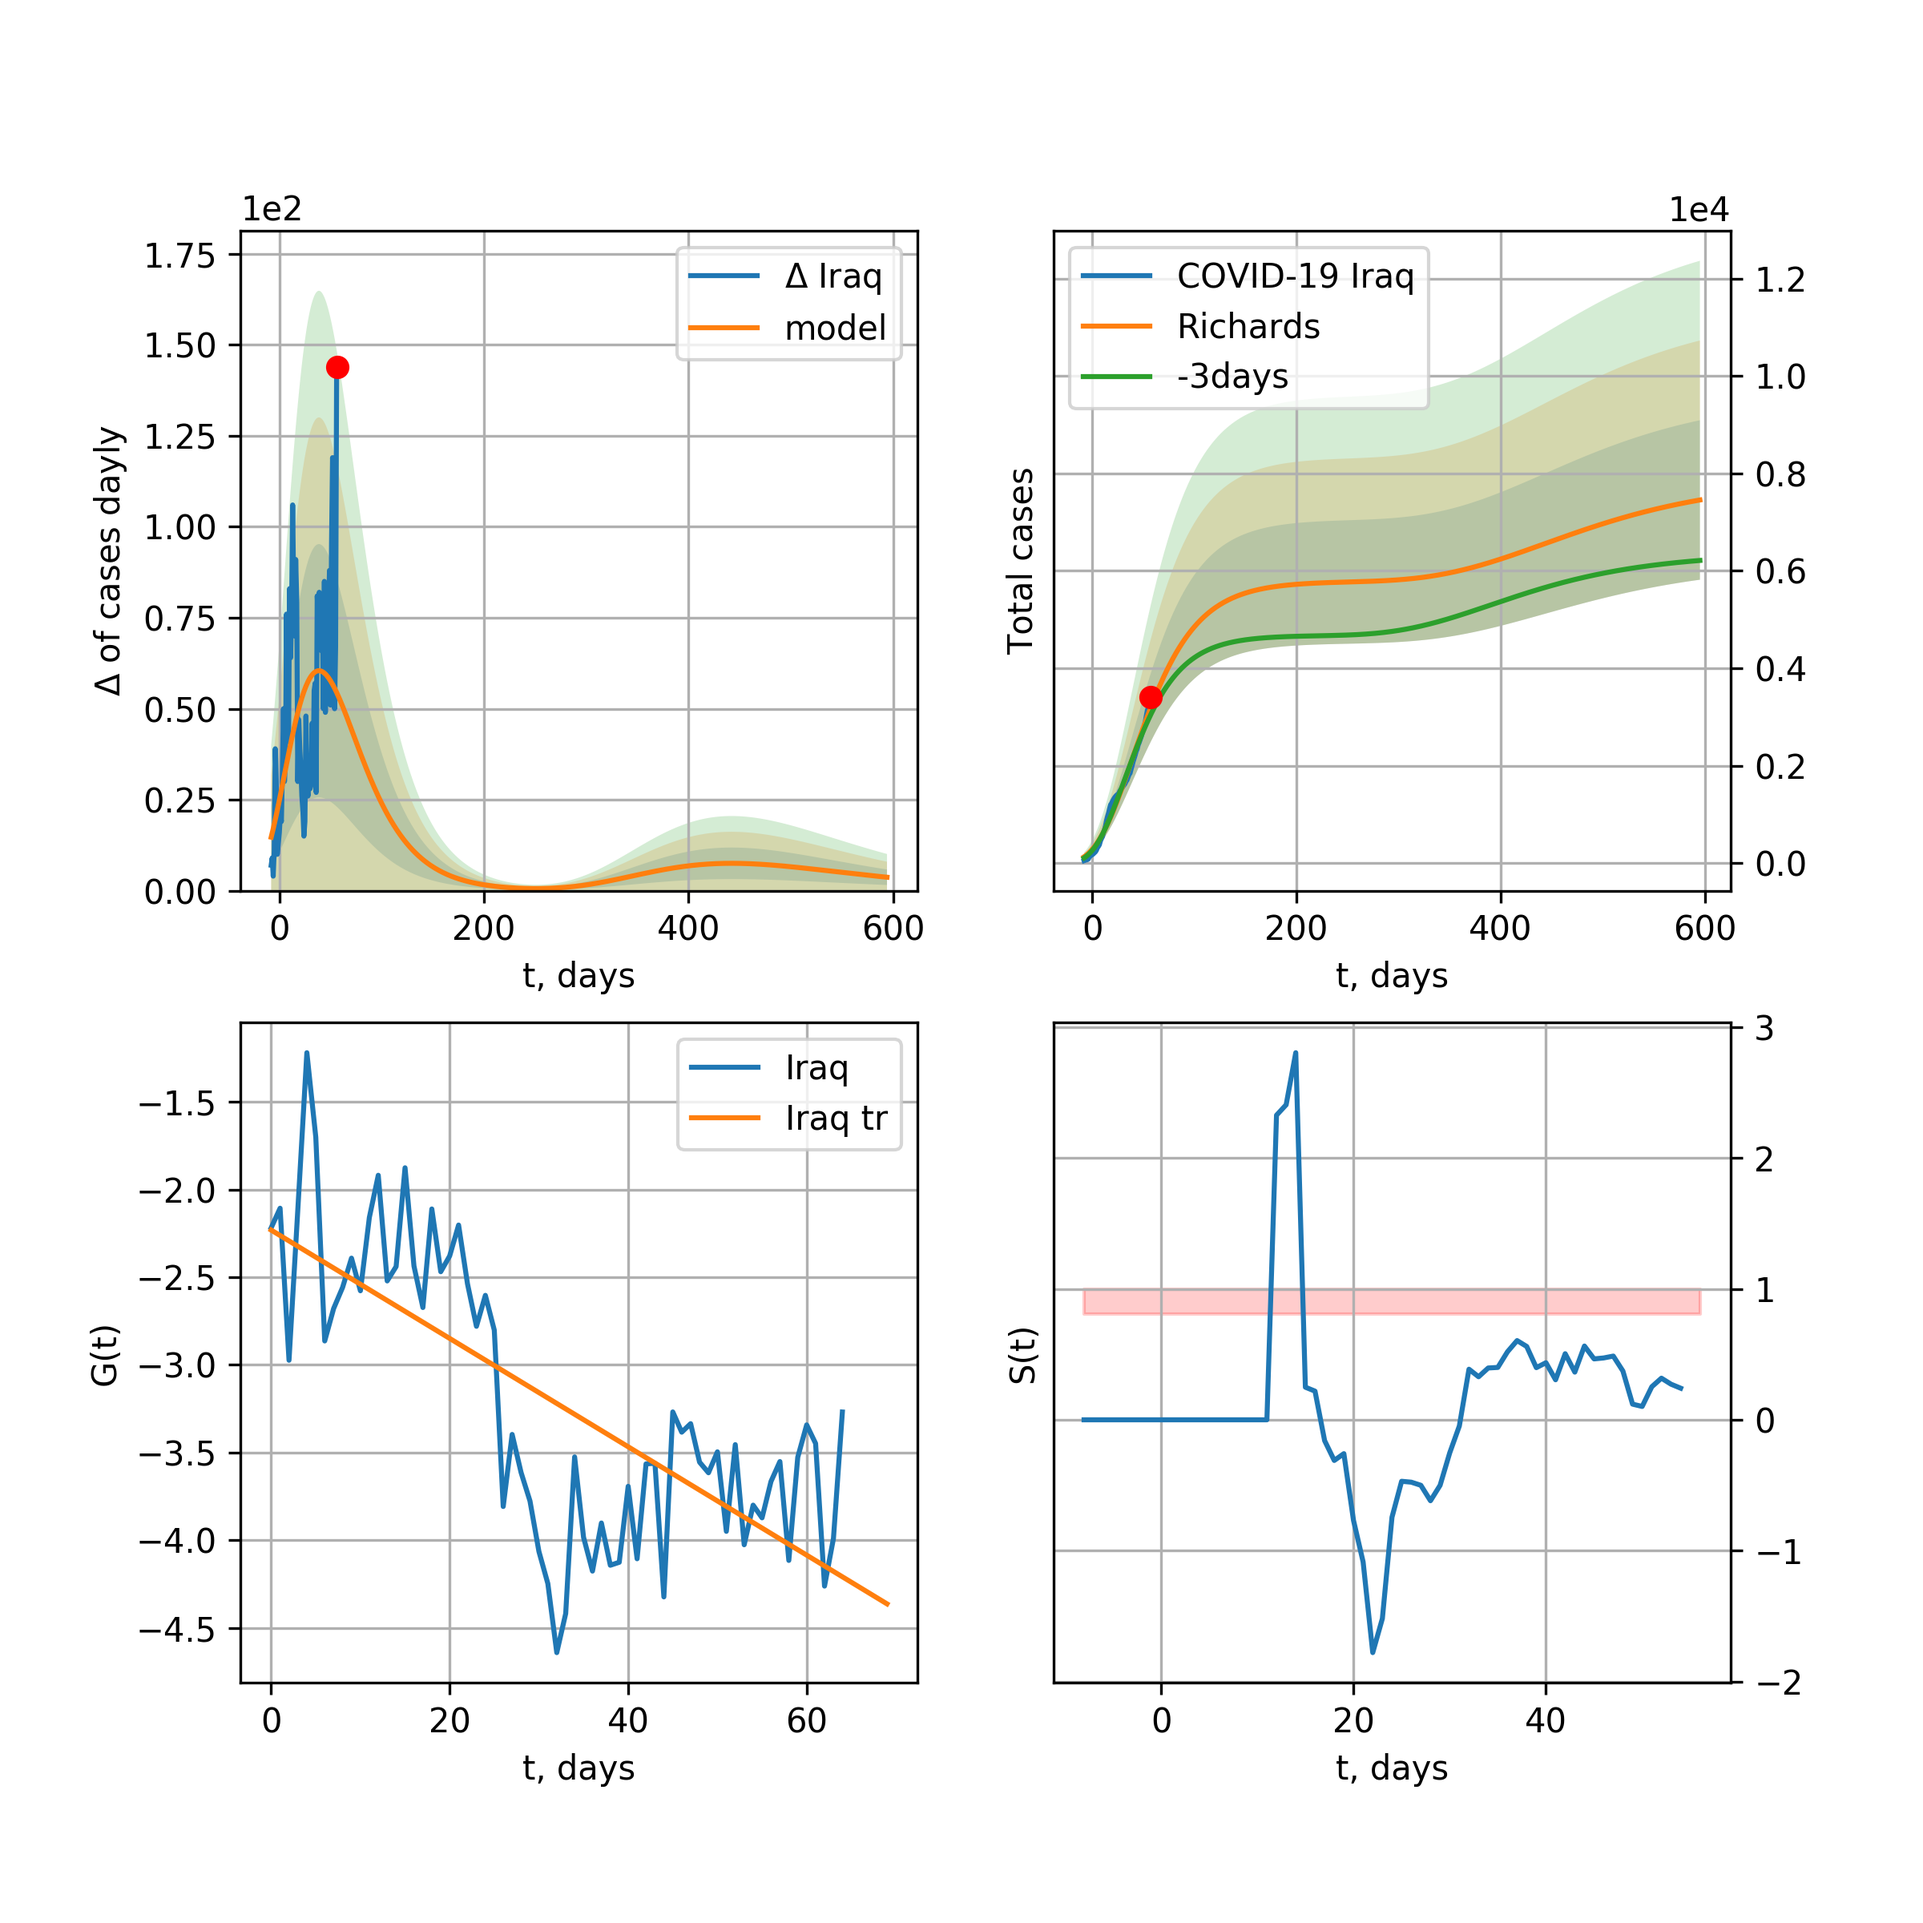
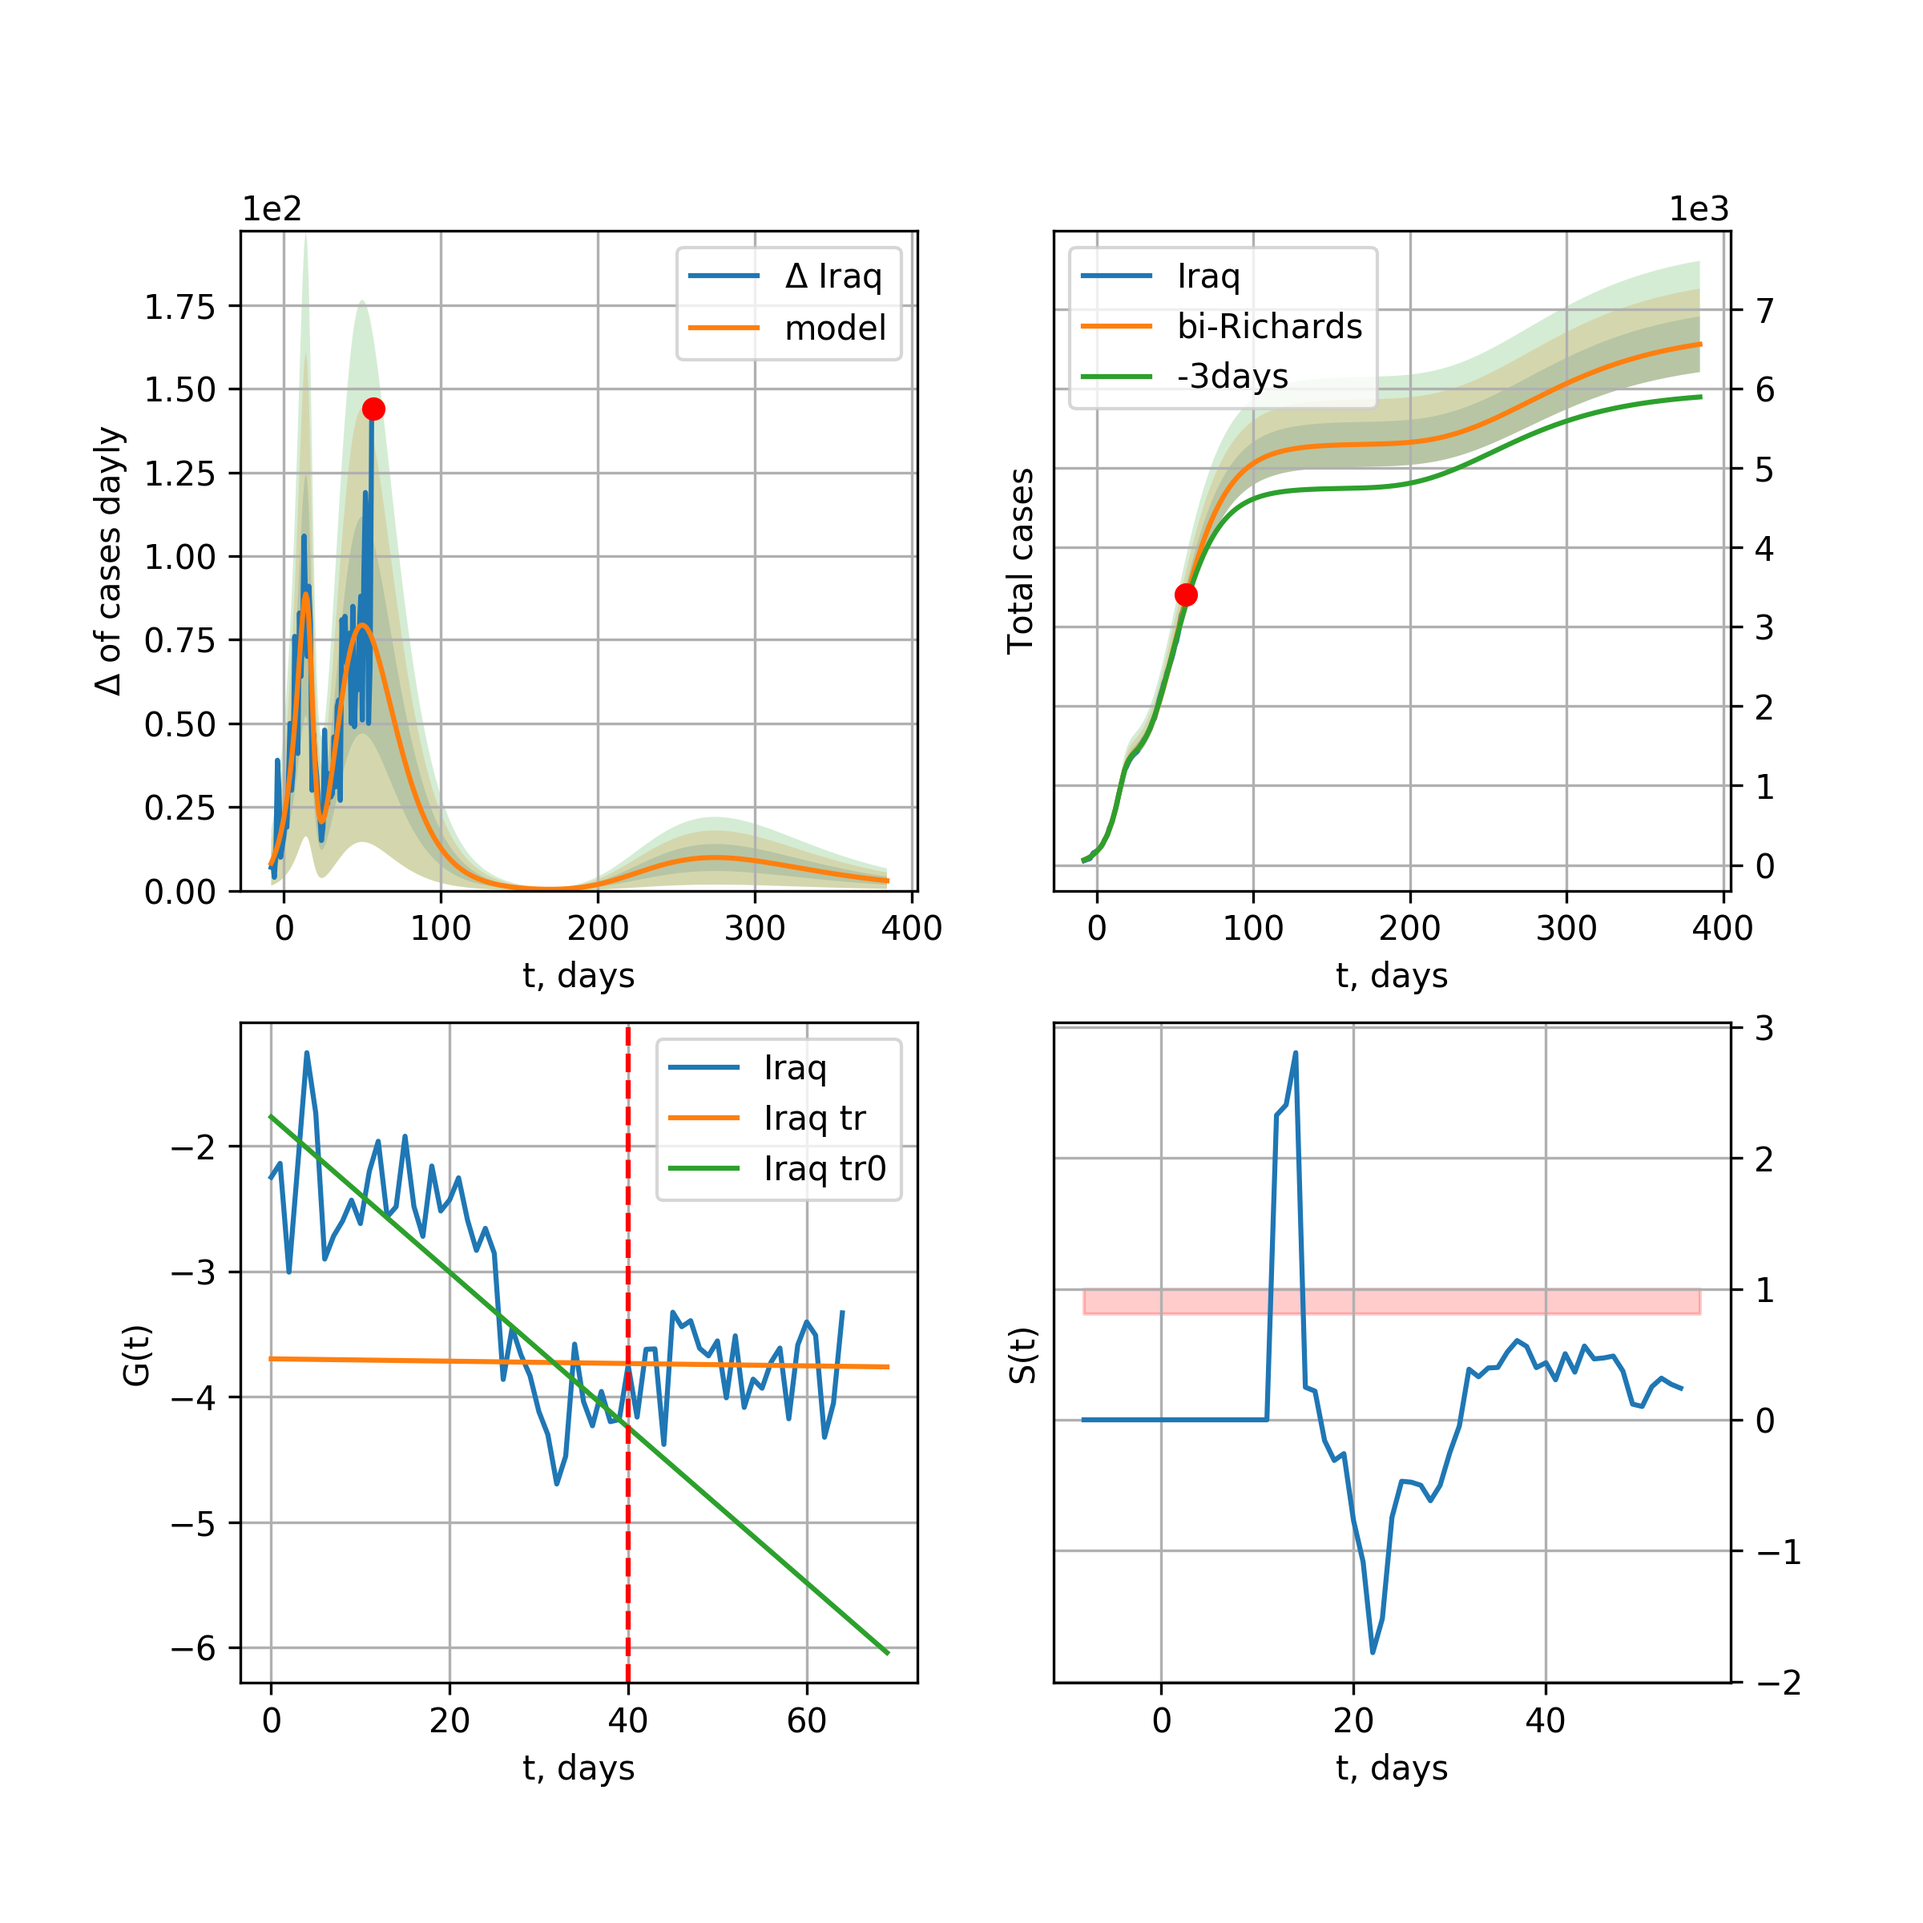
IQ renew 2020-05-17

diff --git a/_site/index.html b/_site/index.html
@@ -462,21 +462,21 @@ trend coefficient of determination: 0.984790 <br />
     
     Ecuador
     <br />
-    <img src="pictures/covidcasesEcuador35_Q.png" alt="hi" class="inline"/><br /> 
+    <img src="pictures/covidcasesEcuador36_R.png" alt="hi" class="inline"/><br /> 
 
       Ecuador data at: 2020-05-17<br />
-+3 day model MAPE: 0.014833<br />
-model: logisticQ<br />
-coeffs: [ 4.19158721e+04  9.02705740e-07  4.30912253e+01 -8.24032233e+04]<br />
-S.Korea scenario coeffs: [0.35416971, 0.02606324, 4.35859408, 19.30413219]<br />
-rational stdev: 0.358218<br />
-forecast at the end of period: +230 days<br />
-	 deltaDaycases: 11<br />
-	 total cases: 56444 ± 20219<br />
-	 total death: 4654 ± 5001<br />
-trend coefficient of determination: 0.708255 <br />
- intercept_: -5.5537437220741195 <br />
- coeffs_: [ 0.         -0.30016091  0.00248462]<br />
++3 day model MAPE: 0.001703<br />
+model: Richards<br />
+coeffs: [ 6.66388459e+04  2.50560549e+00 -9.78198874e+01  1.20658385e-02]<br />
+S.Korea scenario coeffs: [0.36242246, 2.56241634, 1.84890887, 0.13324732]<br />
+rational stdev: 0.324702<br />
+forecast at the end of period: +650 days<br />
+	 deltaDaycases: 14<br />
+	 total cases: 89313 ± 29000<br />
+	 total death: 7364 ± 7173<br />
+trend coefficient of determination: 0.197650 <br />
+ intercept: -1.888457 <br />
+ slope: -0.046420<br />
           <br /> 
     
     Portugal
@@ -1234,23 +1234,24 @@ trend coefficient of determination: 0.943341 <br />
     
     Iraq
     <br />
-    <img src="pictures/covidcasesIraq35_Q.png" alt="hi" class="inline"/><br /> 
+    <img src="pictures/covidcasesIraq36_R.png" alt="hi" class="inline"/><br /> 
 
       Iraq data at: 2020-05-17<br />
-+3 day model MAPE: 0.053912<br />
-model: bi-logisticQ<br />
-coeffs: [ 2.17484598e+03  3.34640201e-06  4.72004859e+01 -4.78005421e+04]<br />
-rational stdev: 0.072353<br />
-forecast at the end of period: +118 days<br />
-	 deltaDaycases: 0<br />
-	 total cases: 3669 ± 265<br />
-	 total death: 132 ± 28<br />
-bi-logisticQ approximation splitting point: 42<br />
-trend coefficient of determination: 0.938502 <br />
- intercept_: -6.116864757771229 <br />
- coeffs_: [ 0.         -0.176838    0.00090835]<br />trend coefficient of determination: 0.378546 <br />
- intercept_: -8.291926285968042 <br />
- coeffs_: [ 0.         -0.08223184  0.00044665]<br />
++3 day model MAPE: 0.020049<br />
+model: bi-Richards<br />
+coeffs: [ 3.92866148e+03  2.67702358e+00 -1.93247202e+01  2.07394298e-02]<br />
+S.Korea scenario coeffs: [0.36242246, 2.56241634, 1.84890887, 0.13324732]<br />
+rational stdev: 0.053445<br />
+forecast at the end of period: +328 days<br />
+	 deltaDaycases: 2<br />
+	 total cases: 6559 ± 350<br />
+	 total death: 237 ± 37<br />
+bi-Richards approximation splitting point: 40<br />
+trend coefficient of determination: 0.681836 <br />
+ intercept: -1.768993 <br />
+ slope: -0.061927<br />trend coefficient of determination: 0.000482 <br />
+ intercept: -3.698524 <br />
+ slope: -0.000933<br />
           <br /> 
     
     Croatia

diff --git a/index.html b/index.html
@@ -192,9 +192,9 @@ European Union
     
     Ecuador
     <br />
-    <img src="pictures/covidcasesEcuador35_Q.png" alt="hi" class="inline"/><br /> 
+    <img src="pictures/covidcasesEcuador36_R.png" alt="hi" class="inline"/><br /> 
 
-      {% include_relative _includes/covidcasesEcuador35_Q.txt %}
+      {% include_relative _includes/covidcasesEcuador36_R.txt %}
           <br /> 
     
     Portugal
@@ -472,9 +472,9 @@ European Union
     
     Iraq
     <br />
-    <img src="pictures/covidcasesIraq35_Q.png" alt="hi" class="inline"/><br /> 
+    <img src="pictures/covidcasesIraq36_R.png" alt="hi" class="inline"/><br /> 
 
-      {% include_relative _includes/covidcasesIraq35_Q.txt %}
+      {% include_relative _includes/covidcasesIraq36_R.txt %}
           <br /> 
     
     Croatia
